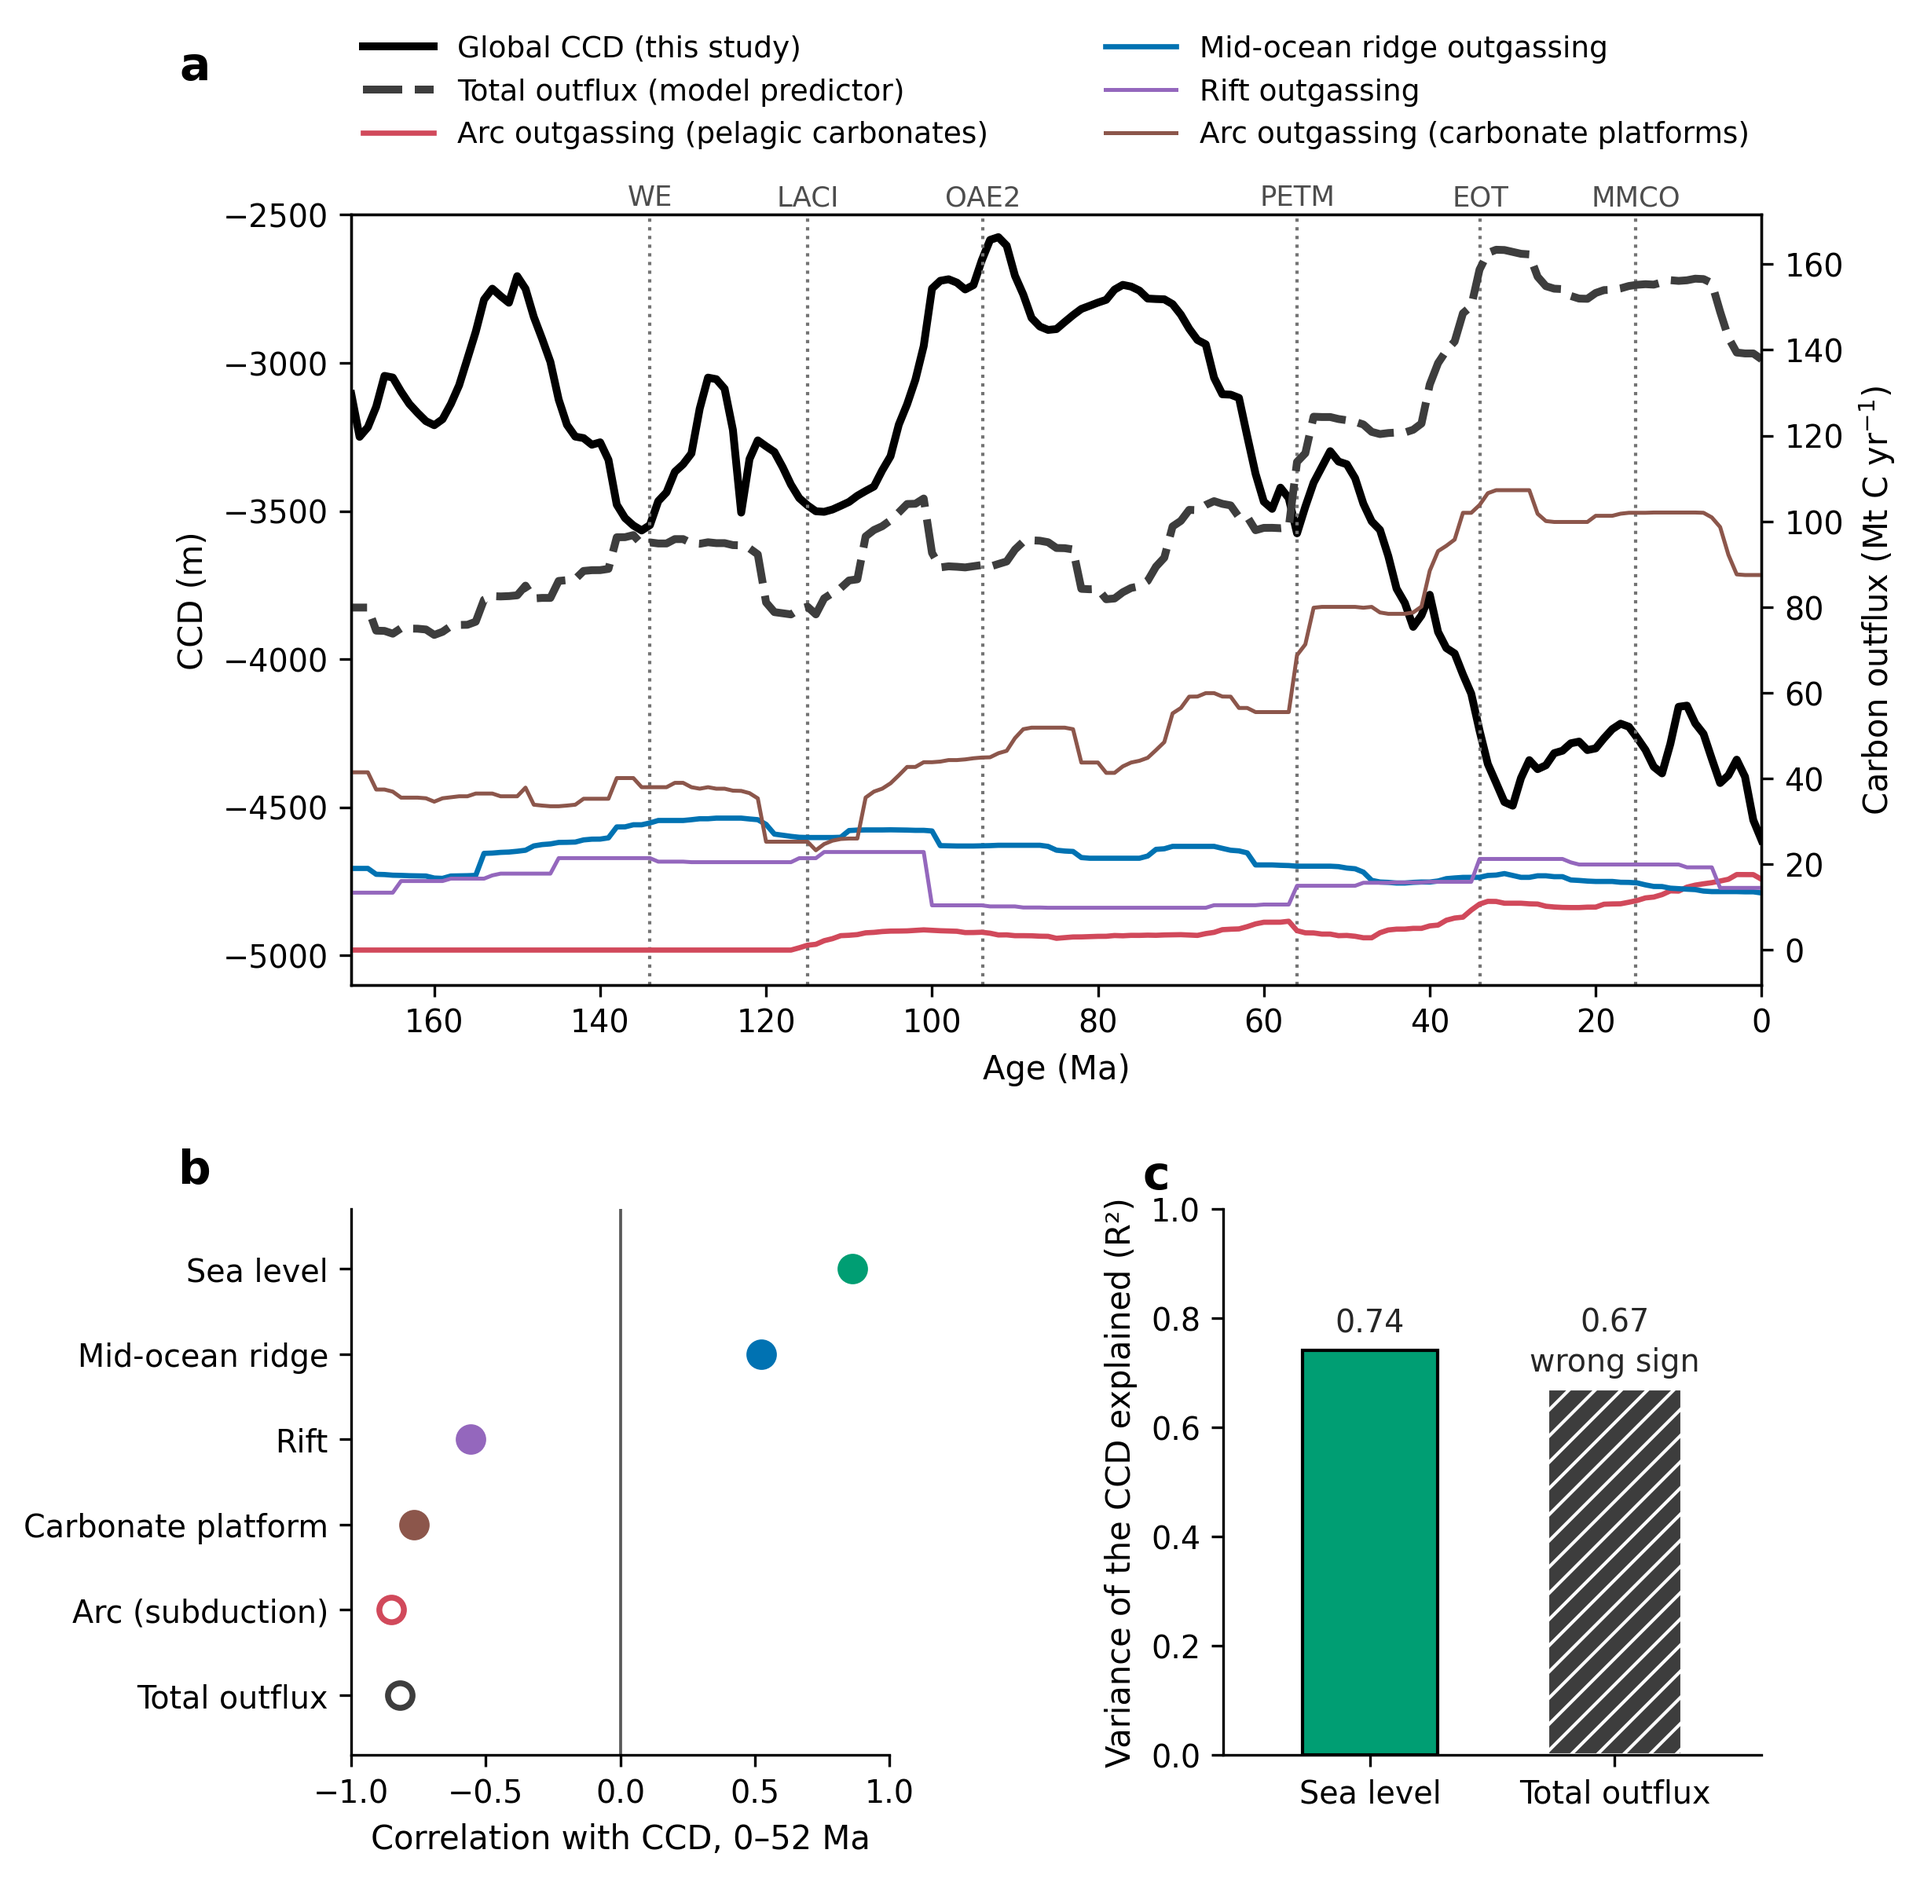
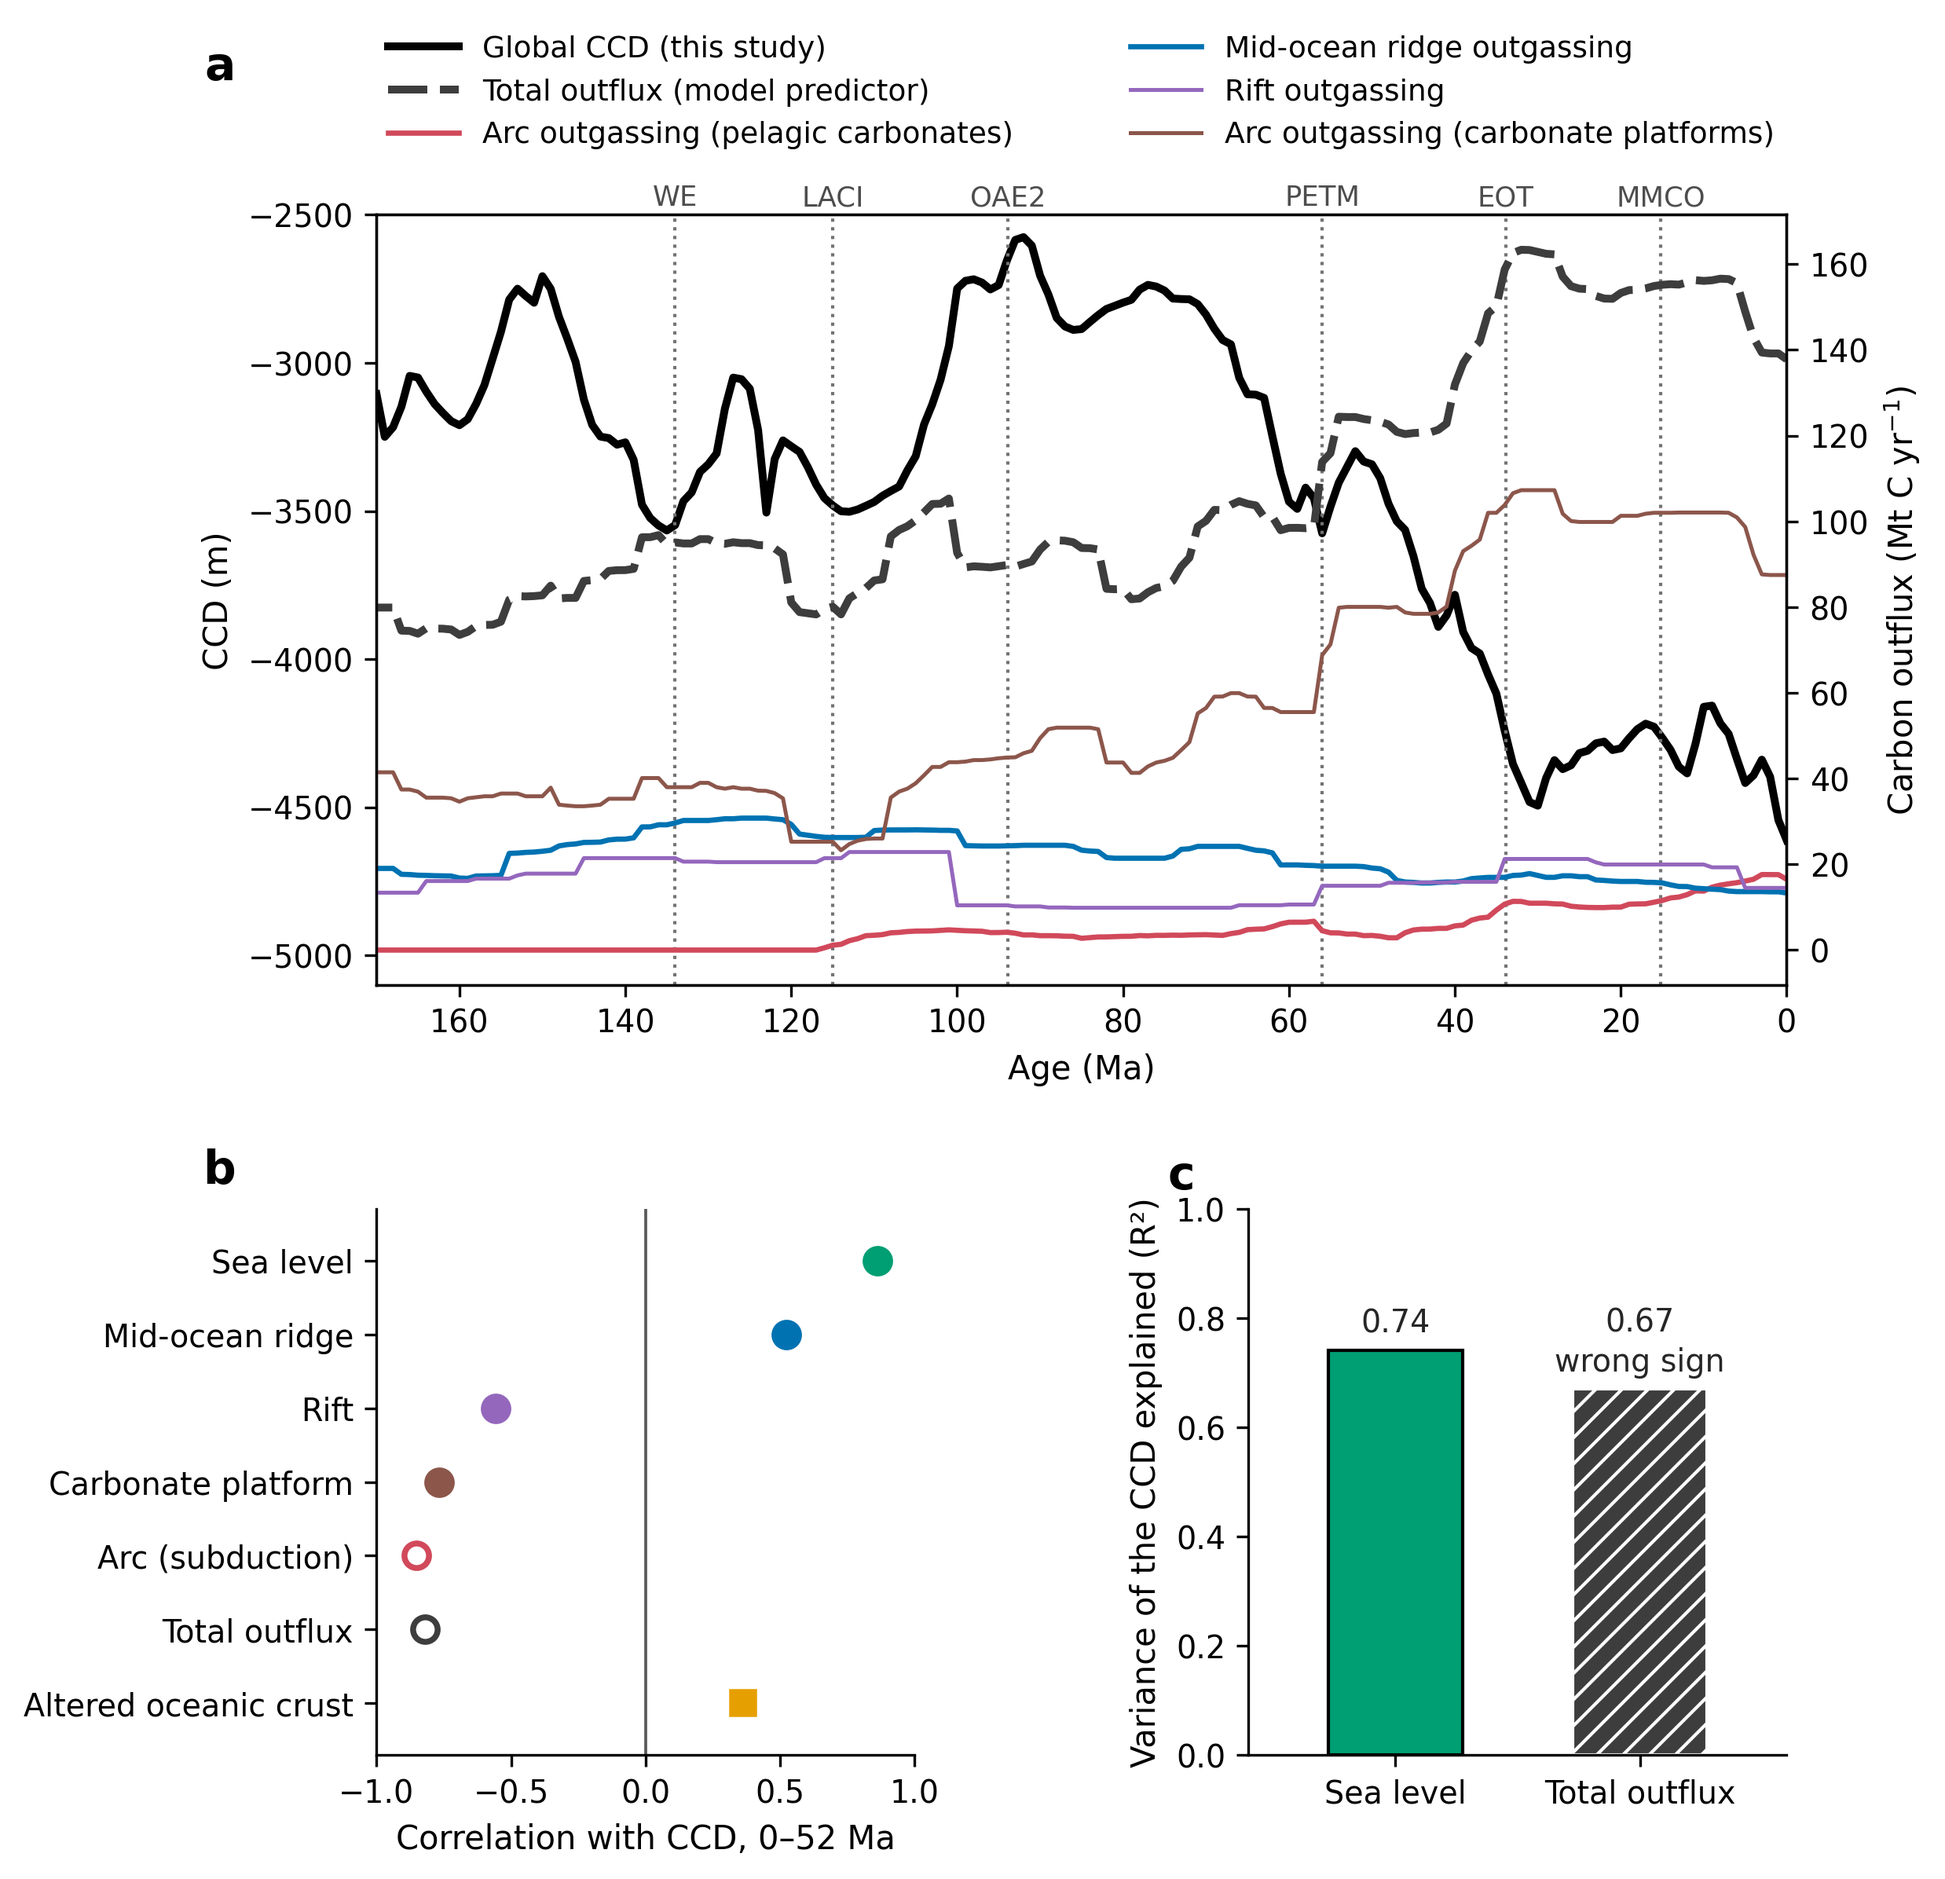
Add the seafloor-weathering sink to the correlation panel
Carbon taken up by seafloor weathering and carried down on altered oceanic
crust is computed explicitly by the degassing model, so it belongs in the
comparison rather than among the terms we say we do not consider. It enters
Figure 4b at r = +0.36, independent of the CCD. Being a sink it reverses the
sign a CO2 control predicts, so sinks are drawn as squares and the CSV carries
an is_sink column.

Claude-Session: https://claude.ai/code/session_01GG6eoxS3E2hq56pSKk2b7G

diff --git a/figure_scripts/attribution_closure_analysis.py b/figure_scripts/attribution_closure_analysis.py
@@ -193,7 +193,7 @@ for _label, _base, _indep in _COMPONENTS:
     # does not have to bracket the mean one, and on the figure the marker has to sit
     # inside its own bar.
     _all = [_r[_sc][0] for _sc in ("mean", "min", "max")]
-    _rows.append({"component": _label, "ccd_independent": _indep,
+    _rows.append({"component": _label, "ccd_independent": _indep, "is_sink": False,
                   "r": _r["mean"][0], "r_min_scenario": min(_all), "r_max_scenario": max(_all),
                   "n_effective": _r["mean"][1], "p_ar1": _r["mean"][2]})
 # Sea level goes in the same panel as the degassing components, as the reference the
@@ -201,9 +201,24 @@ for _label, _base, _indep in _COMPONENTS:
 # record and does not depend on the model's carbonate sedimentation-rate scenarios.
 _sl52 = D["sl"].to_numpy()[_m52]
 _r_sl, _neff_sl, _p_sl = ar1_corr(_depth52, _sl52)
-_rows.insert(0, {"component": "Sea level", "ccd_independent": True,
+_rows.insert(0, {"component": "Sea level", "ccd_independent": True, "is_sink": False,
                  "r": _r_sl, "r_min_scenario": _r_sl, "r_max_scenario": _r_sl,
                  "n_effective": _neff_sl, "p_ar1": _p_sl})
+# Carbon taken up by seafloor weathering and carried down on altered oceanic crust. The
+# degassing model computes this explicitly, so it is not an unconsidered term: it belongs
+# in the comparison. It is a SINK, so the sign a CO2 control predicts is the opposite of
+# the one for the sources - more uptake means less CO2, hence a deeper CCD. It is
+# independent of the CCD, since only the sediment term uses carbonate thickness.
+_crust = {}
+for _sc in ("mean", "min", "max"):
+    _crust[_sc] = ar1_corr(_depth52, onto(_pli.index.to_numpy(float),
+                                          _pli[("crust", _sc)].to_numpy())[_m52])
+_call = [_crust[_sc][0] for _sc in ("mean", "min", "max")]
+_rows.append({"component": "Altered oceanic crust", "ccd_independent": True, "is_sink": True,
+              "r": _crust["mean"][0], "r_min_scenario": min(_call),
+              "r_max_scenario": max(_call), "n_effective": _crust["mean"][1],
+              "p_ar1": _crust["mean"][2]})
+
 _cc = pd.DataFrame(_rows)
 _cc.to_csv(_HERE / "component_correlations.csv", index=False)
 print("\n================ COMPONENT CORRELATIONS (0-52 Ma) ================")

diff --git a/figure_scripts/make_fig4_combined.py b/figure_scripts/make_fig4_combined.py
@@ -37,7 +37,7 @@ age=D["age"].to_numpy(); ccd=-D["depth"].to_numpy()
 # markers in (b) and the bars in (c). Sea level appears only in (b) and (c).
 COL = {"Sea level":"#009e73", "Mid-ocean ridge":"#0072b2", "Rift":"#9467bd",
        "Carbonate platform":"#8c564b", "Arc (subduction)":"#d1495b",
-       "Total outflux":"#3d3d3d"}
+       "Total outflux":"#3d3d3d", "Altered oceanic crust":"#e69f00"}
 PT_TICK, PT_LABEL, PT_LEG = 9.5, 10, 9
 
 # Panel (a) spans the width; (b) and (c) share the row below it. The lag panel is gone:
@@ -142,7 +142,10 @@ _y = np.arange(len(_cc))
 # small enough to state in the caption instead.
 for _i, _row in _cc.iterrows():
     _c = COL.get(_row["component"], "0.4")
-    axc.plot([_row["r"]], [_i], marker="o", ms=7.5, zorder=3,
+    # squares are carbon SINKS, circles sources and sea level. A sink reverses the sign a
+    # CO2 control predicts: more uptake means less CO2 and so a deeper CCD.
+    _m = "s" if bool(_row.get("is_sink", False)) else "o"
+    axc.plot([_row["r"]], [_i], marker=_m, ms=7.5 if _m == "o" else 6.8, zorder=3,
              mfc=_c if _row["ccd_independent"] else "white", mec=_c, mew=1.8)
 axc.axvline(0.0, color="0.35", lw=0.9, zorder=1)
 axc.set_yticks(_y); axc.set_yticklabels(_cc["component"], fontsize=PT_TICK)
